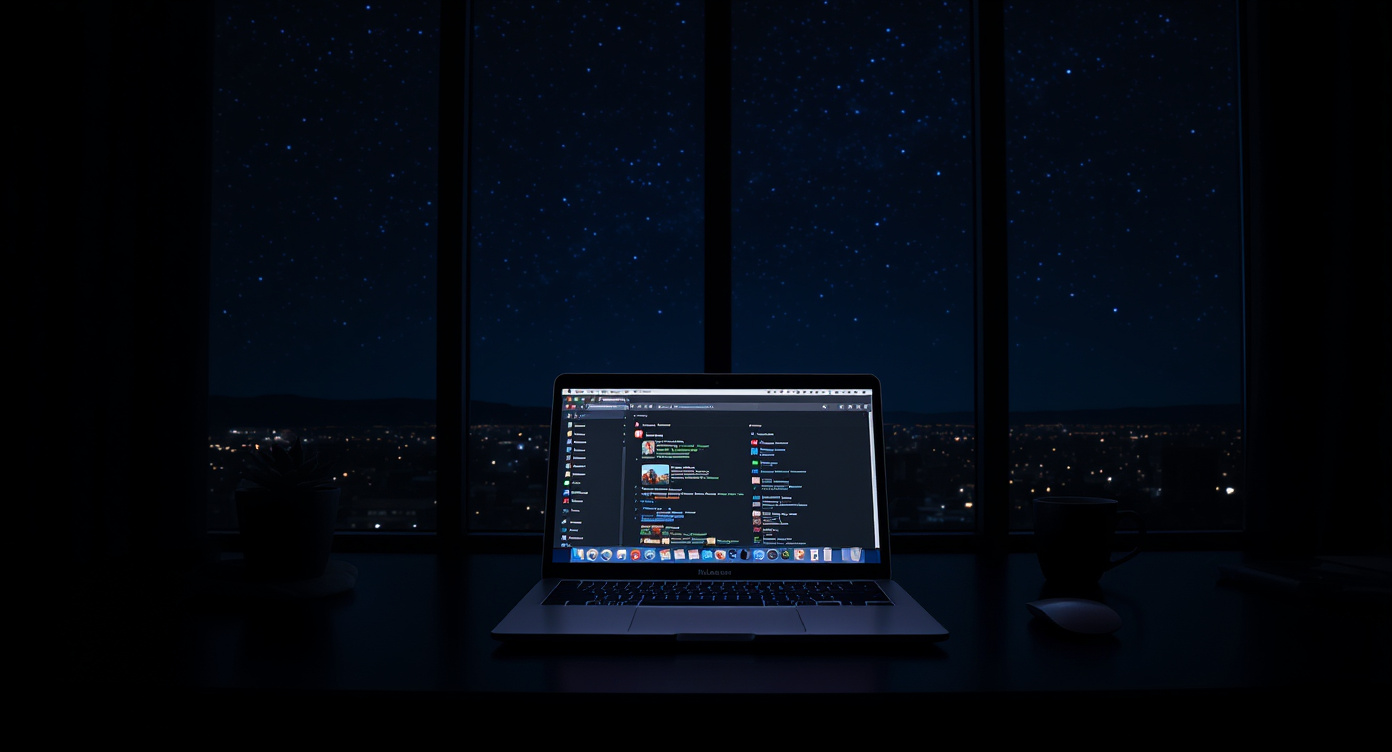
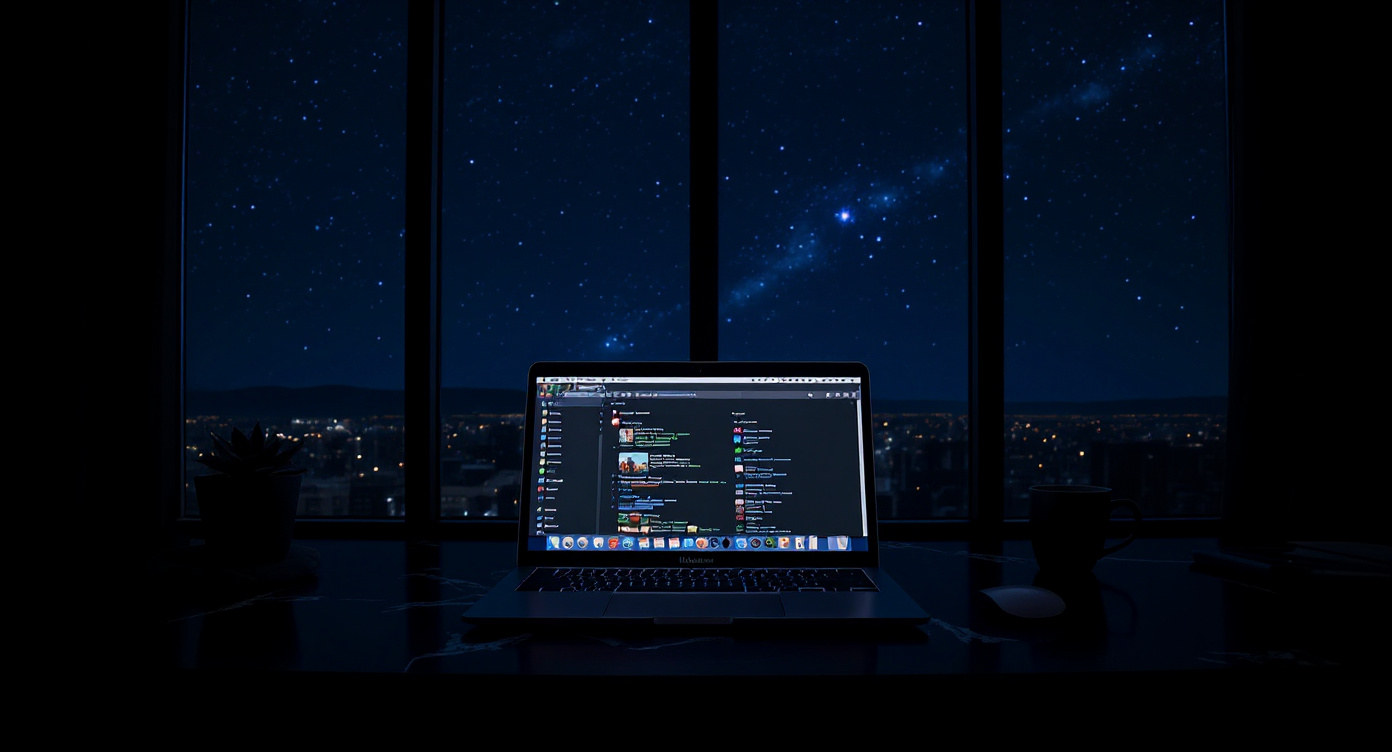
feat: new hero images + raise headline position

diff --git a/src/app/(marketing)/page.tsx b/src/app/(marketing)/page.tsx
@@ -13,7 +13,7 @@ export default function LandingPage() {
       <section className="w-full min-h-screen flex flex-col items-center justify-center border-b border-[var(--border)] relative overflow-hidden bg-[var(--bg-base)]">
         <div className="absolute inset-0 dark:bg-[radial-gradient(ellipse_80%_50%_at_50%_-10%,rgba(167,139,250,0.08)_0%,transparent_70%),var(--bg-base)] pointer-events-none"></div>
         <HeroImage />
-        <div className="container px-4 text-center relative z-10 flex flex-col items-center">
+        <div className="container px-4 text-center relative z-10 flex flex-col items-center pb-32 sm:pb-48 lg:pb-56">
           <h1 className="text-4xl sm:text-5xl lg:text-7xl font-[800] tracking-[-0.03em] mb-6 max-w-4xl leading-[1.1] text-[var(--text-primary)]">
             Every word. Every video. Yours.
           </h1>
